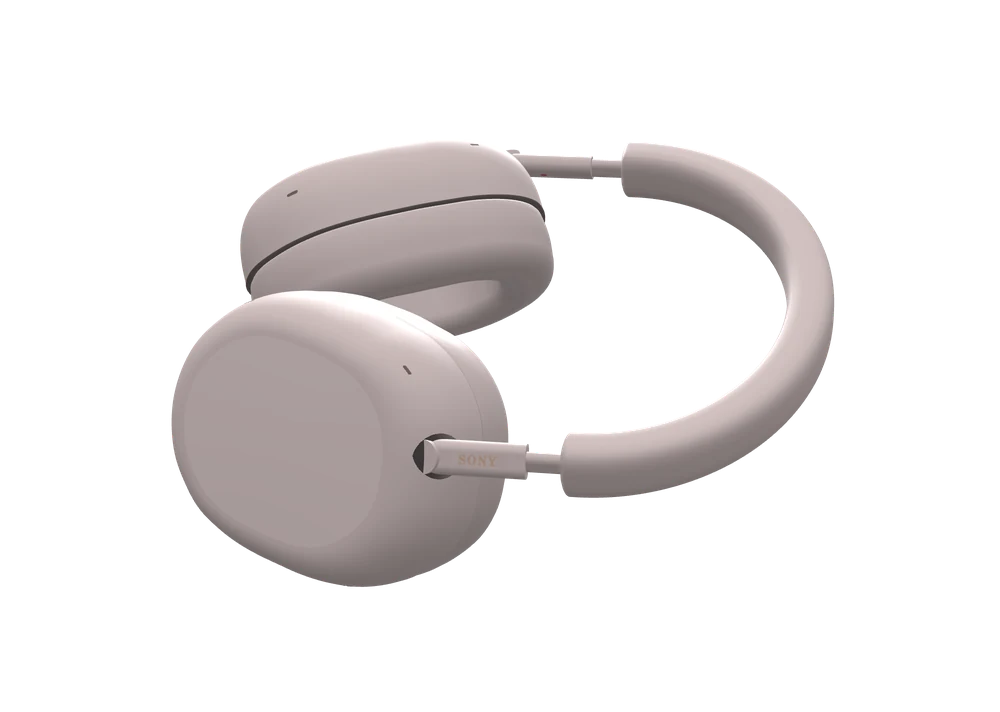
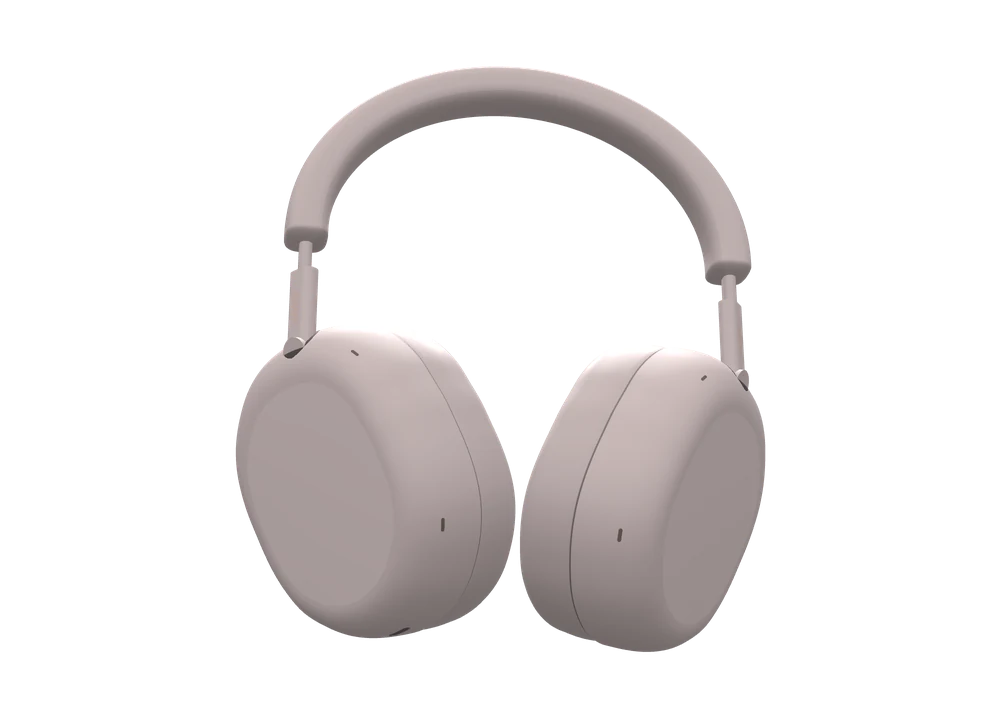
3.2.0: WH-1000XM5 upright; welcome hero cycles through supported devices

Changed region(s): [[0.155, 0.0927, 0.837, 0.927], [0.372, 0.5562, 0.403, 0.5871]]

diff --git a/app/src/main/java/com/peyi/sonypodsbattery/Onboarding.kt b/app/src/main/java/com/peyi/sonypodsbattery/Onboarding.kt
@@ -109,6 +109,7 @@ import androidx.compose.ui.graphics.vector.ImageVector
 import androidx.compose.ui.platform.LocalContext
 import androidx.compose.ui.platform.LocalLifecycleOwner
 import androidx.compose.ui.res.painterResource
+import androidx.compose.ui.semantics.contentDescription
 import androidx.compose.ui.semantics.heading
 import androidx.compose.ui.semantics.semantics
 import androidx.compose.ui.text.font.FontWeight
@@ -356,19 +357,26 @@ private fun WelcomeStep(onStart: () -> Unit) {
     Page(
         progress = null,
         art = {
-            Image(
-                painter = painterResource(remember { budArt(SettingsStore.load(context)).pair }),
-                contentDescription = "Sony earbuds",
-                modifier = Modifier.fillMaxWidth(0.8f).height(200.dp).drawBehind {
-                    drawCircle(
-                        Brush.radialGradient(listOf(colors.primary.copy(alpha = 0.25f), Color.Transparent), center, size.height / 1.6f),
-                        radius = size.height / 1.6f
-                    )
-                }
+            // The one live 3D hero. Before the user's own model is known it steps through every supported
+            // model (EarbudModel.entries, so new models join by themselves), each in black.
+            val known = remember { EarbudModel.fromName(SettingsStore.load(context).modelName) }
+            val art = remember { budArt(SettingsStore.load(context)) }
+            Hero3D(
+                device = if (known != null) art.device else EarbudModel.entries.first().id,
+                color = if (known != null) art.hero3d else "black",
+                cycleDevices = if (known == null) EarbudModel.entries.map { it.id } else null,
+                modifier = Modifier.fillMaxWidth(0.8f).height(200.dp)
+                    .semantics { contentDescription = "Sony earbuds and headphones" }
+                    .drawBehind {
+                        drawCircle(
+                            Brush.radialGradient(listOf(colors.primary.copy(alpha = 0.25f), Color.Transparent), center, size.height / 1.6f),
+                            radius = size.height / 1.6f
+                        )
+                    }
             )
         },
         title = "Welcome to SunPods",
-        body = "Everything your Sony earbuds can do, without the clutter.",
+        body = "Everything your Sony earbuds and headphones can do, without the clutter.",
         primary = "Get Started",
         onPrimary = onStart,
         secondary = "Restore from Backup",
@@ -420,14 +428,14 @@ private fun NearbyStep(tick: Int, onNext: () -> Unit) {
     when (gate.state) {
         Perm.ASK, Perm.GRANTED -> Page(
             progress = progressOf(Step.NEARBY), icon = Icons.Rounded.Bluetooth,
-            title = "Connect to Your Earbuds",
-            body = "SunPods uses Bluetooth to talk to your ${EarbudModel.active.noun}. Android calls this Nearby devices.",
+            title = "Connect to Your Earbuds or Headphones",
+            body = "SunPods uses Bluetooth to talk to your earbuds or headphones. Android calls this Nearby devices.",
             primary = "Allow", onPrimary = gate.request
         )
         Perm.DENIED -> Page(
             progress = progressOf(Step.NEARBY), icon = Icons.Rounded.ErrorOutline, tone = MaterialTheme.colorScheme.error,
             title = "SunPods Needs Nearby Devices",
-            body = "Without it, SunPods can't show battery levels or change settings. It's only used to connect to your ${EarbudModel.active.noun}.",
+            body = "Without it, SunPods can't show battery levels or change settings. It's only used to connect to your earbuds or headphones.",
             primary = "Allow", onPrimary = gate.request,
             secondary = "Open Settings", onSecondary = { openAppSettings(context) }
         )
@@ -512,7 +520,7 @@ private fun EarbudsStep(vm: SunpodsViewModel, tick: Int, onNext: () -> Unit) {
         note = null
         pairNew = false
         val device = pickedDevice(context, result.data)
-        if (device == null) { state = Buds.Failed("Couldn't recognise those earbuds. Try again."); return@rememberLauncherForActivityResult }
+        if (device == null) { state = Buds.Failed("Couldn't recognise that device. Try again."); return@rememberLauncherForActivityResult }
         state = if (device.bondState == BluetoothDevice.BOND_BONDED) Buds.Waiting
         else if (device.createBond()) Buds.Pairing else Buds.Failed("Pairing didn't start. Make sure the case light is flashing blue, then try again.")
     }
@@ -549,7 +557,7 @@ private fun EarbudsStep(vm: SunpodsViewModel, tick: Int, onNext: () -> Unit) {
     fun search() {
         note = null
         val cdm = context.getSystemService(CompanionDeviceManager::class.java)
-        if (cdm == null) { state = Buds.Failed("SunPods can't search for earbuds on this phone. Pair them in Bluetooth settings instead."); return }
+        if (cdm == null) { state = Buds.Failed("SunPods can't search for earbuds or headphones on this phone. Pair them in Bluetooth settings instead."); return }
         state = Buds.Searching
         val filter = BluetoothDeviceFilter.Builder()
             .setNamePattern(EarbudModel.scanPattern)
@@ -581,12 +589,12 @@ private fun EarbudsStep(vm: SunpodsViewModel, tick: Int, onNext: () -> Unit) {
         label = "earbuds"
     ) { s ->
     when (s) {
-        Buds.Checking -> Page(progress, icon = Icons.Rounded.Headphones, title = "Looking for Your Earbuds", body = "One moment.", primary = null) {
+        Buds.Checking -> Page(progress, icon = Icons.Rounded.Headphones, title = "Looking for Your Earbuds or Headphones", body = "One moment.", primary = null) {
             CircularProgressIndicator()
         }
         Buds.BluetoothOff -> Page(
             progress, icon = Icons.Rounded.BluetoothDisabled,
-            title = "Bluetooth Is Off", body = "Turn on Bluetooth to connect to your ${EarbudModel.active.noun}.",
+            title = "Bluetooth Is Off", body = "Turn on Bluetooth to connect to your earbuds or headphones.",
             primary = "Turn On Bluetooth",
             onPrimary = { runCatching { context.startActivity(Intent(BluetoothAdapter.ACTION_REQUEST_ENABLE)) }.onFailure { openBluetoothSettings(context) } },
             secondary = "Not Now", onSecondary = onNext

diff --git a/app/src/main/java/com/peyi/sonypodsbattery/Hero3D.kt b/app/src/main/java/com/peyi/sonypodsbattery/Hero3D.kt
@@ -41,6 +41,9 @@ import kotlin.math.abs
  * @param lid case lid, 0 closed to 1 open; animates when it changes.
  * @param onTap a tap on the hero (the page tells taps from spins).
  * @param device which earbuds: "xm5" (WF-1000XM5) or "c710n" (WF-C710N); each has its own finishes.
+ * @param cycleDevices when given (at least two device ids), the hero steps through them in the one
+ *   WebView, every [CYCLE_MS] with a soft fade, each in [color]; the next is preloaded. The timer starts
+ *   once the first has drawn. Not with reduced motion (animator duration scale 0): the first one stays.
  *
  * Horizontal drags spin the earbuds (fling, then they ease home 2.5 s after the finger lifts,
  * with a haptic tick); vertical drags are left to the scrolling parent.
@@ -53,13 +56,23 @@ internal fun Hero3D(
     lid: Float = 0f,
     onTap: (() -> Unit)? = null,
     device: String = "xm5",
+    cycleDevices: List<String>? = null,
 ) {
+    val context = androidx.compose.ui.platform.LocalContext.current
+    val cycle = cycleDevices?.takeIf { it.size > 1 }
+    val reduceMotion = remember { android.provider.Settings.Global.getFloat(context.contentResolver, android.provider.Settings.Global.ANIMATOR_DURATION_SCALE, 1f) <= 0f }
+    val cycling = cycle != null && !reduceMotion
+    var step by androidx.compose.runtime.mutableIntStateOf(0)
+    val shownDevice = if (cycle != null) cycle[step % cycle.size] else device
+    val nextDevice = if (cycling) cycle!![(step + 1) % cycle.size] else null
     // One hero view for the whole screen, kept alive while you move between tabs and pages, so
     // coming back to Home doesn't reload the 3D scene (which showed as the earbuds vanishing).
     val lifecycle = androidx.lifecycle.compose.LocalLifecycleOwner.current.lifecycle
     val state = remember(lifecycle) { HeroCache.stateFor(lifecycle) }
     SideEffect { HeroCache.onTap = onTap }
-    state.device = device
+    state.device = shownDevice
+    state.soft = cycling
+    state.preload = nextDevice
     state.color = color
     state.model = model
     state.lid = lid.coerceIn(0f, 1f)
@@ -69,8 +82,11 @@ internal fun Hero3D(
 
     // Until the 3D page has drawn, show the picture it left last time (same size, same pose), then
     // fade across. Opening the app shows the earbuds at once instead of them popping in.
-    val context = androidx.compose.ui.platform.LocalContext.current
-    val placeholder = if (state.drawn) null else remember(device, color, model) { HeroSnapshots.load(context, device, color, model) }
+    val placeholder = if (state.drawn) null else remember(shownDevice, color, model) { HeroSnapshots.load(context, shownDevice, color, model) }
+    if (cycling) LaunchedEffect(state.drawn) {
+        if (!state.drawn) return@LaunchedEffect
+        while (true) { kotlinx.coroutines.delay(CYCLE_MS); step++ }
+    }
     val cover by androidx.compose.animation.core.animateFloatAsState(
         if (state.drawn) 0f else 1f, androidx.compose.animation.core.tween(240), label = "heroCover"
     )
@@ -111,7 +127,7 @@ private object HeroSnapshots {
         val first = when {
             model != "buds" -> null
             device == "xm5" && color == "black" -> "turntable/f000.webp"
-            device == EarbudModel.WF_C710N.id -> "turntable/c710n_$color.webp"
+            device != "xm5" -> "turntable/${device}_$color.webp"   // every other model's first-launch picture
             else -> null
         } ?: return null
         return runCatching {
@@ -164,6 +180,10 @@ private object HeroCache {
 }
 
 
+/** The Welcome page cycle: time on each model, and the fade out and in of a swap. */
+private const val CYCLE_MS = 4000L
+private const val SOFT_FADE_MS = 320
+
 private const val HERO3D_HOST = "appassets.androidplatform.net"
 private const val HERO3D_PAGE = "https://$HERO3D_HOST/assets/hero3d/index.html"
 
@@ -177,6 +197,10 @@ private class Hero3DState {
     var color = "black"
     var model = "buds"
     var lid = 0f
+    /** Slow fade for device swaps (the Welcome cycle), and the device to warm up next. */
+    var soft = false
+    var preload: String? = null
+    private var sentPreload: String? = null
     private var sentDevice: String? = null
     private var sentColor: String? = null
     private var sentModel: String? = null
@@ -193,7 +217,13 @@ private class Hero3DState {
         if (device != sentDevice) {
             sentDevice = device
             sentColor = null
-            v.evaluateJavascript("window.sunpods&&window.sunpods.setDevice&&window.sunpods.setDevice(${js(device)})", null)
+            v.evaluateJavascript("window.sunpods&&window.sunpods.setDevice&&window.sunpods.setDevice(${js(device)}${if (soft) ", $SOFT_FADE_MS" else ""})", null)
+        }
+        preload?.let { p ->
+            if (p != sentPreload) {
+                sentPreload = p
+                v.evaluateJavascript("window.sunpods&&window.sunpods.preload&&window.sunpods.preload(${js(p)})", null)
+            }
         }
         if (color != sentColor) {
             sentColor = color

diff --git a/app/src/main/assets/hero3d/hero3d.js b/app/src/main/assets/hero3d/hero3d.js
@@ -8,6 +8,8 @@
 //   setColor('black' | 'silver' | 'pink', instant?)   short crossfade between finishes
 //   setModel('buds' | 'case')                           earbuds hero or charging case
 //   setLid(0..1, instant?)                              case lid, 0 closed, 1 open (Sony's -116 deg)
+//   preload('xm5' | 'c710n' | 'wh1000xm5' | ...)        load and warm a device ahead of setDevice (no visible change)
+//   setDevice(id, fadeMs?)  fadeMs: a slower fade for the Welcome page's cycle
 //   wiggle()  spin()                                     the one-time hint and the TalkBack spin
 //   setDevice('xm5' | 'c710n')                          which earbuds: WF-1000XM5 (default) or WF-C710N
 //     On the WF-C710N (c710n.js, built in code) setColor takes 'black' | 'white' | 'pink' | 'blue'
@@ -770,7 +772,20 @@ function setColorMod(id, name, instant) {
   anims.add(slot.colorAnim); requestRender();
 }
 let deviceToken = 0;
-function setDevice(d) {
+// Warm a device that is likely to be shown next (the Welcome page's cycle): load its module and compile
+// the shaders of what is drawn, off screen, so the swap itself is only the fade. No-op once done.
+const warmed = new Set();
+function preload(d) {
+  const id = DEVICES[d] ? d : 'xm5';
+  if (warmed.has(id)) return;
+  warmed.add(id);
+  if (id === 'xm5') {
+    loadBuds().then(() => compileShown(buds.root)).catch(() => {});
+  } else {
+    loadMod(id).then(() => compileShown(mods[id].m.buds.root)).catch(() => {});
+  }
+}
+function setDevice(d, fadeMs) {
   const want = DEVICES[d] ? d : 'xm5';
   if (want !== deviceTarget) {
     colorFor[deviceTarget] = state.color;
@@ -778,17 +793,19 @@ function setDevice(d) {
     state.color = colorFor[want];
   }
   const token = ++deviceToken;
+  const fade = fadeMs > 0 ? Math.min(1000, fadeMs) : 0;   // a slower, softer fade for the Welcome page's cycle
   const ready = want !== 'xm5' ? loadMod(want) : state.model === 'case' ? loadCase() : loadBuds();
   ready.then(() => {
     if (token !== deviceToken) return;
     if (state.device === want) { requestRender(); return; }
+    canvas.style.transitionDuration = fade ? fade + 'ms' : '';
     canvas.style.opacity = '0';
     setTimeout(() => {
       if (token !== deviceToken) return;
       state.device = want; state.angle = 0; stopMotion();
       requestRender();
       requestAnimationFrame(() => { canvas.style.opacity = '1'; });
-    }, 170);
+    }, fade ? fade + 20 : 170);
   });
 }
 
@@ -909,7 +926,8 @@ const api = {
   setColor: (c, instant) => setColor(String(c), !!instant),
   setModel: (m) => setModel(String(m)),
   setLid: (v, instant) => setLid(v, !!instant),
-  setDevice: (d) => setDevice(String(d)),
+  setDevice: (d, fadeMs) => setDevice(String(d), Number(fadeMs) || 0),
+  preload: (d) => preload(String(d)),
   wiggle, spin,
   get state() { return { ...state }; },
 };

diff --git a/app/src/main/assets/hero3d/wh1000xm5.js b/app/src/main/assets/hero3d/wh1000xm5.js
@@ -95,8 +95,8 @@ const CASE0 = {
   phones: { pos: [0, 0.04, -0.4], scale: 1.0, ext: 0.35, squeeze: 14 },   // folded headphones on the base's floor: offset of their middle
 };
 
-// The hero: the headphones turned and tilted so they fill the frame like the WF-1000XM5 pair
-const HERO0 = { rot: [-55, 10, -92], scale: 0.236, pos: [0.05, 0.10, 0], ext: 1.10 };
+// The hero: the headphones upright like Sony's product shots (band on top, cups hanging), turned three-quarter and a little above eye level
+const HERO0 = { rot: [10, -30, 0], scale: 0.222, pos: [0.08, -0.03, 0], ext: 1.10 };
 const CASEREST0 = { yaw: -22, tilt: 46, scale: 0.168, pos: [0.0, -0.02, 0] };
 
 function merge(a, b) {
